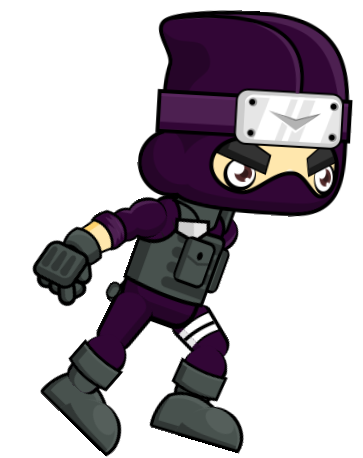
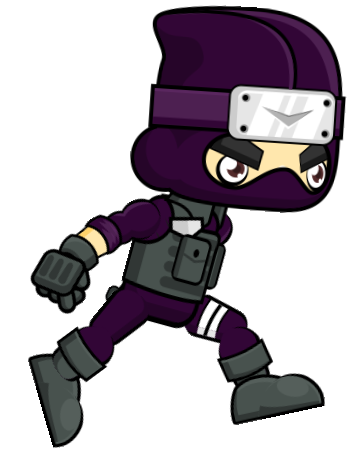
Speleranimaties en achtergrond parallax

Changed region(s): [[0.0606, 0.0, 0.9697, 1.0]]

diff --git a/GameWindow.xaml b/GameWindow.xaml
@@ -26,11 +26,14 @@
 		<Rectangle Name="platform2Player2" Height="75" Width="500" Tag="Platform" Fill="LightGray" Canvas.Top="300" Canvas.Left="800"/>
 		<Rectangle Name="platform3Player2" Height="75" Width="500" Tag="Platform" Fill="LightGray" Canvas.Top="225" Canvas.Left="1600"/>
 
-		<Canvas Name="player1" Height="150" Width="75" Canvas.Top="675" Background="CornflowerBlue" Canvas.Left="75">
-			<Label Width="75" Height="30" HorizontalContentAlignment="Center" FontSize="16" Canvas.Top="-30" Foreground="white">Speler 1</Label>
+		<Canvas Name="player1" Height="150" Width="80" Canvas.Top="675" Canvas.Left="75">
+			<Label Width="80" Height="30" HorizontalContentAlignment="Center" FontSize="16" Canvas.Top="-30" Foreground="White">Speler 1</Label>
+			<Image Height="150" Source="Images/Ninja/Idle/1.png" RenderTransformOrigin="0.5, 0.5"/>
 		</Canvas>
-		<Canvas Name="player2" Height="150" Width="75" Canvas.Top="225" Background="CornflowerBlue" Canvas.Left="75">
-			<Label Width="75" Height="30" HorizontalContentAlignment="Center" FontSize="16" Canvas.Top="-30" Foreground="White">Speler 2</Label>
+
+		<Canvas Name="player2" Height="150" Width="80" Canvas.Top="225" Canvas.Left="75">
+			<Label Width="80" Height="30" HorizontalContentAlignment="Center" FontSize="16" Canvas.Top="-30" Foreground="White">Speler 2</Label>
+			<Image Height="150" Source="Images/Ninja/Idle/1.png" RenderTransformOrigin="0.5, 0.5"/>
 		</Canvas>
 
 		<Label Name="scoreLabelPlayer1" Foreground="White" FontSize="32" FontWeight="Bold" Content="Score: 0" Canvas.Right="10" Canvas.Top="485"/>

diff --git a/GameWindow.xaml.cs b/GameWindow.xaml.cs
@@ -5,6 +5,8 @@ using System.Linq;
 using System.Windows;
 using System.Windows.Controls;
 using System.Windows.Input;
+using System.Windows.Media;
+using System.Windows.Media.Imaging;
 using System.Windows.Shapes;
 using System.Windows.Threading;
 
@@ -12,8 +14,8 @@ namespace project_arcade
 {
 	public partial class GameWindow : Window
 	{
-		#region global variables
-		#region player variables
+		#region Global Variables
+		#region Player Variables
 		private int gravityPlayer1;
 		private int gravityPlayer2;
 		private double lastTopPlayer1;
@@ -30,6 +32,10 @@ namespace project_arcade
 		private bool canJumpPlayer2;
 		private string namePlayer1;
 		private string namePlayer2;
+		private int animationTickPlayer1;
+		private int animationTickPlayer2;
+		private bool movingPlayer1;
+		private bool movingPlayer2;
 		#endregion
 
 		private DispatcherTimer timer = new DispatcherTimer();
@@ -95,29 +101,45 @@ namespace project_arcade
 
 			MovePlatforms();
 
+			AnimatePlayer();
+
+			BackgroundParallax();
+
 			PauseChecking();
 		}
 
 		private void PlayerMovement()
 		{
+			movingPlayer1 = false;
+
 			// Move left if the left arrow key is held and/or right if the right arrow key is held
 			if(Keyboard.IsKeyDown(Key.Left))
 			{
+				movingPlayer1 = true;
+				player1.Children.OfType<Image>().First().RenderTransform = new ScaleTransform(-1, 1);
 				Canvas.SetLeft(player1, Canvas.GetLeft(player1) - speed);
 			}
 
 			if(Keyboard.IsKeyDown(Key.Right))
 			{
+				movingPlayer1 = !movingPlayer1;
+				player1.Children.OfType<Image>().First().RenderTransform = new ScaleTransform(1, 1);
 				Canvas.SetLeft(player1, Canvas.GetLeft(player1) + speed);
 			}
 
+			movingPlayer2 = false;
+
 			if(Keyboard.IsKeyDown(Key.A))
 			{
+				movingPlayer2 = true;
+				player2.Children.OfType<Image>().First().RenderTransform = new ScaleTransform(-1, 1);
 				Canvas.SetLeft(player2, Canvas.GetLeft(player2) - speed);
 			}
 
 			if(Keyboard.IsKeyDown(Key.D))
 			{
+				movingPlayer2 = !movingPlayer2;
+				player2.Children.OfType<Image>().First().RenderTransform = new ScaleTransform(1, 1);
 				Canvas.SetLeft(player2, Canvas.GetLeft(player2) + speed);
 			}
 
@@ -202,18 +224,18 @@ namespace project_arcade
 			{
 				Canvas.SetLeft(player1, 0);
 			}
-			else if(Canvas.GetLeft(player1) > 1525)
+			else if(Canvas.GetLeft(player1) > 1600 - player1.Width)
 			{
-				Canvas.SetLeft(player1, 1525);
+				Canvas.SetLeft(player1, 1600 - player1.Width);
 			}
 
 			if(Canvas.GetLeft(player2) < 0)
 			{
 				Canvas.SetLeft(player2, 0);
 			}
-			else if(Canvas.GetLeft(player2) > 1525)
+			else if(Canvas.GetLeft(player2) > 1600 - player2.Width)
 			{
-				Canvas.SetLeft(player2, 1525);
+				Canvas.SetLeft(player2, 1600 - player2.Width);
 			}
 		}
 
@@ -236,7 +258,6 @@ namespace project_arcade
 					if(player1Rect.IntersectsWith(platformRect) && lastTopPlayer1 + player1.Height <= Canvas.GetTop(rectangle))
 					{
 						isDeadPlayer1 = true;
-						Canvas.SetTop(player1, Canvas.GetTop(rectangle) - player1.Height);
 					}
 				}
 
@@ -250,7 +271,6 @@ namespace project_arcade
 						if(player2Rect.IntersectsWith(platformRect) && lastTopPlayer2 + player1.Height <= Canvas.GetTop(rectangle))
 						{
 							isDeadPlayer2 = true;
-							Canvas.SetTop(player1, Canvas.GetTop(rectangle) - player2.Height);
 						}
 					}
 				}
@@ -370,7 +390,97 @@ namespace project_arcade
 				}
 			}
 
-			platformSpeed += 0.01;
+			platformSpeed += 0.0025;
+		}
+
+		private void AnimatePlayer()
+		{
+			// Increment the animation frame every tick and roll over every 40 ticks but change the player sprite every 4 ticks
+			if(!onFloorPlayer1)
+			{
+				if(!player1.Children.OfType<Image>().First().Source.ToString().Contains("Jump"))
+				{
+					animationTickPlayer1 = 0;
+				}
+
+				player1.Children.OfType<Image>().First().Source = new BitmapImage(new("Images/Ninja/Jump/" + animationTickPlayer1 / 4 + ".png", UriKind.Relative));
+				Canvas.SetLeft(player1.Children.OfType<Image>().First(), -15);
+				if(animationTickPlayer1 < 39)
+				{
+					animationTickPlayer1++;
+				}
+			}
+			else if(movingPlayer1)
+			{
+				if(!player1.Children.OfType<Image>().First().Source.ToString().Contains("Run"))
+				{
+					animationTickPlayer1 = 0;
+				}
+
+				player1.Children.OfType<Image>().First().Source = new BitmapImage(new("Images/Ninja/Run/" + animationTickPlayer1 / 4 + ".png", UriKind.Relative));
+				Canvas.SetLeft(player1.Children.OfType<Image>().First(), -20);
+				animationTickPlayer1 = (animationTickPlayer1 += 1) % 40;
+			}
+			else
+			{
+				if(!player1.Children.OfType<Image>().First().Source.ToString().Contains("Idle"))
+				{
+					animationTickPlayer1 = 0;
+				}
+
+				player1.Children.OfType<Image>().First().Source = new BitmapImage(new("Images/Ninja/Idle/" + animationTickPlayer1 / 4 + ".png", UriKind.Relative));
+				Canvas.SetLeft(player1.Children.OfType<Image>().First(), -0);
+				animationTickPlayer1 = (animationTickPlayer1 += 1) % 40;
+			}
+
+			if(!onFloorPlayer2)
+			{
+				if(!player2.Children.OfType<Image>().First().Source.ToString().Contains("Jump"))
+				{
+					animationTickPlayer2 = 0;
+				}
+
+				player2.Children.OfType<Image>().First().Source = new BitmapImage(new("Images/Ninja/Jump/" + animationTickPlayer2 / 4 + ".png", UriKind.Relative));
+				Canvas.SetLeft(player2.Children.OfType<Image>().First(), -15);
+				if(animationTickPlayer2 < 39)
+				{
+					animationTickPlayer2++;
+				}
+			}
+			else if(movingPlayer2)
+			{
+				if(!player2.Children.OfType<Image>().First().Source.ToString().Contains("Run"))
+				{
+					animationTickPlayer2 = 0;
+				}
+
+				player2.Children.OfType<Image>().First().Source = new BitmapImage(new("Images/Ninja/Run/" + animationTickPlayer2 / 4 + ".png", UriKind.Relative));
+				Canvas.SetLeft(player2.Children.OfType<Image>().First(), -20);
+				animationTickPlayer2 = (animationTickPlayer2 += 1) % 40;
+			}
+			else
+			{
+				if(!player2.Children.OfType<Image>().First().Source.ToString().Contains("Idle"))
+				{
+					animationTickPlayer2 = 0;
+				}
+
+				player2.Children.OfType<Image>().First().Source = new BitmapImage(new("Images/Ninja/Idle/" + animationTickPlayer2 / 4 + ".png", UriKind.Relative));
+				Canvas.SetLeft(player2.Children.OfType<Image>().First(), -0);
+				animationTickPlayer2 = (animationTickPlayer2 += 1) % 40;
+			}
+		}
+
+		private void BackgroundParallax()
+		{
+			var backgroundSegments = gameCanvas.Children.OfType<Image>().Where(b => (string)b.Tag == "Background").ToArray();
+
+			// Move each segment a little left to simulate depth
+			for(int i = 0; i < backgroundSegments.Length; i++)
+			{
+				var backgroundSegment = backgroundSegments[i];
+				Canvas.SetLeft(backgroundSegment, (Canvas.GetLeft(backgroundSegment) - ((i + 1) * 0.5) - (platformSpeed - 4)) % 4400);
+			}
 		}
 
 		/// <summary>
